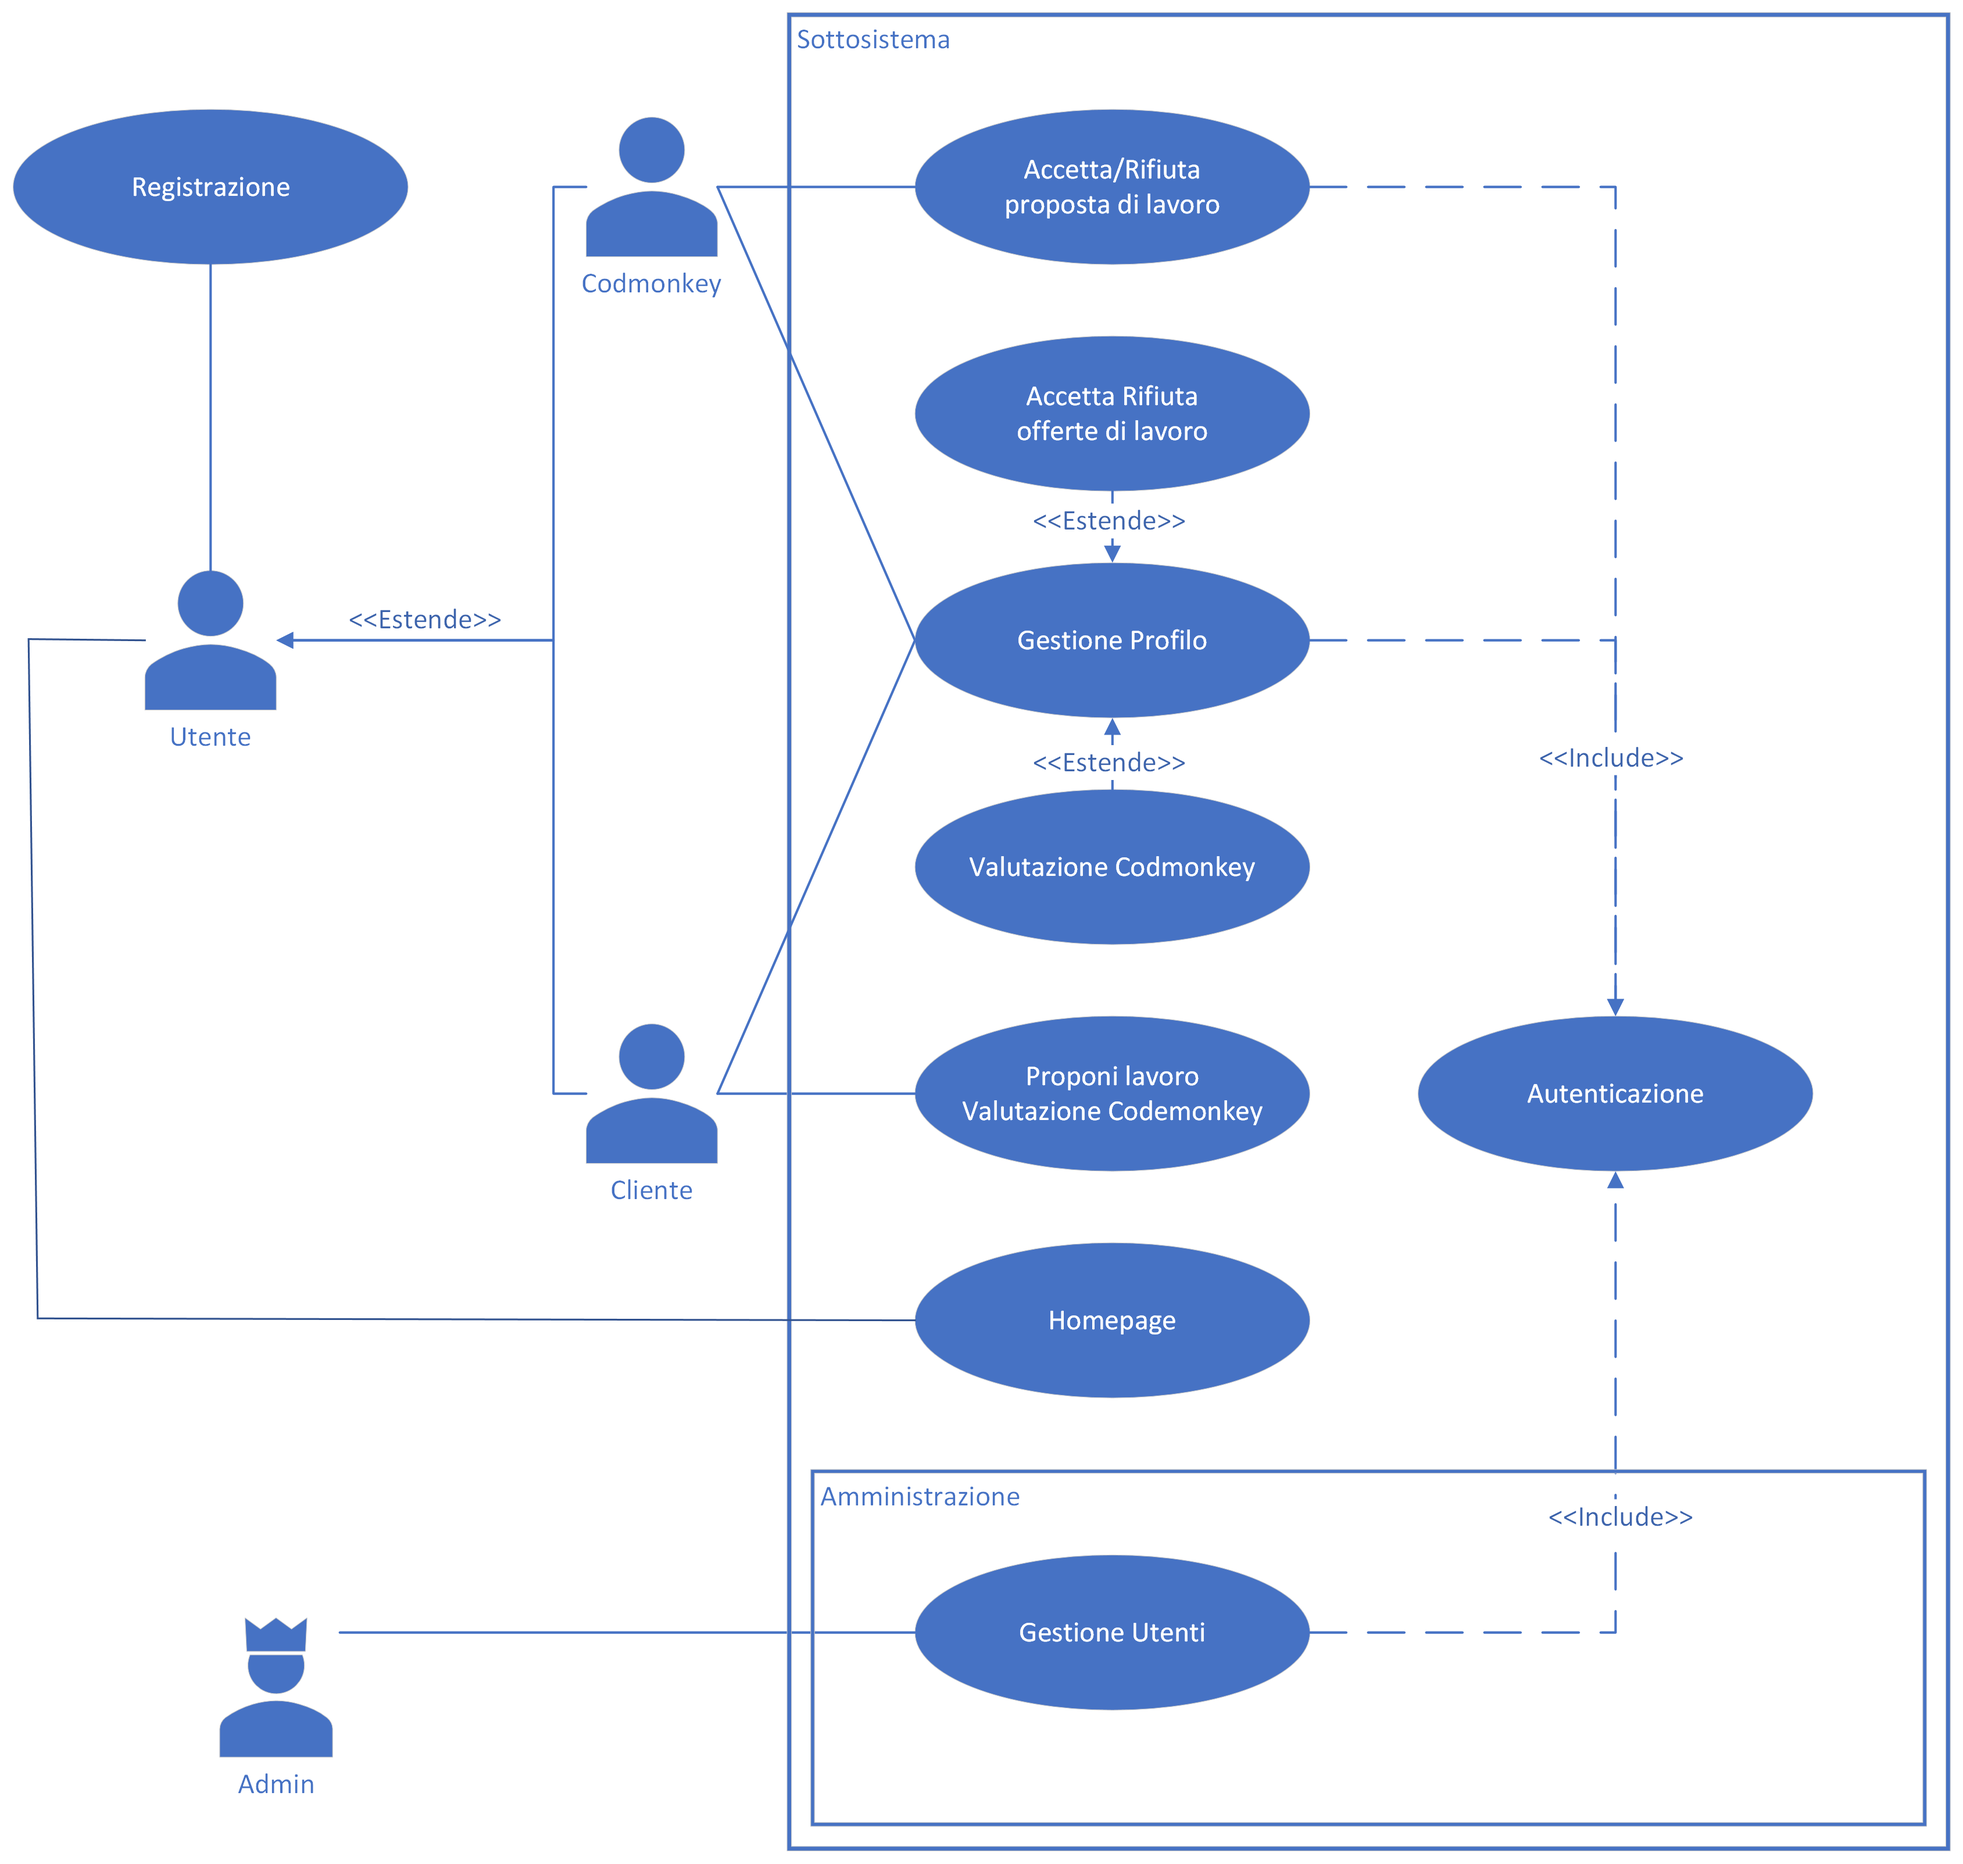
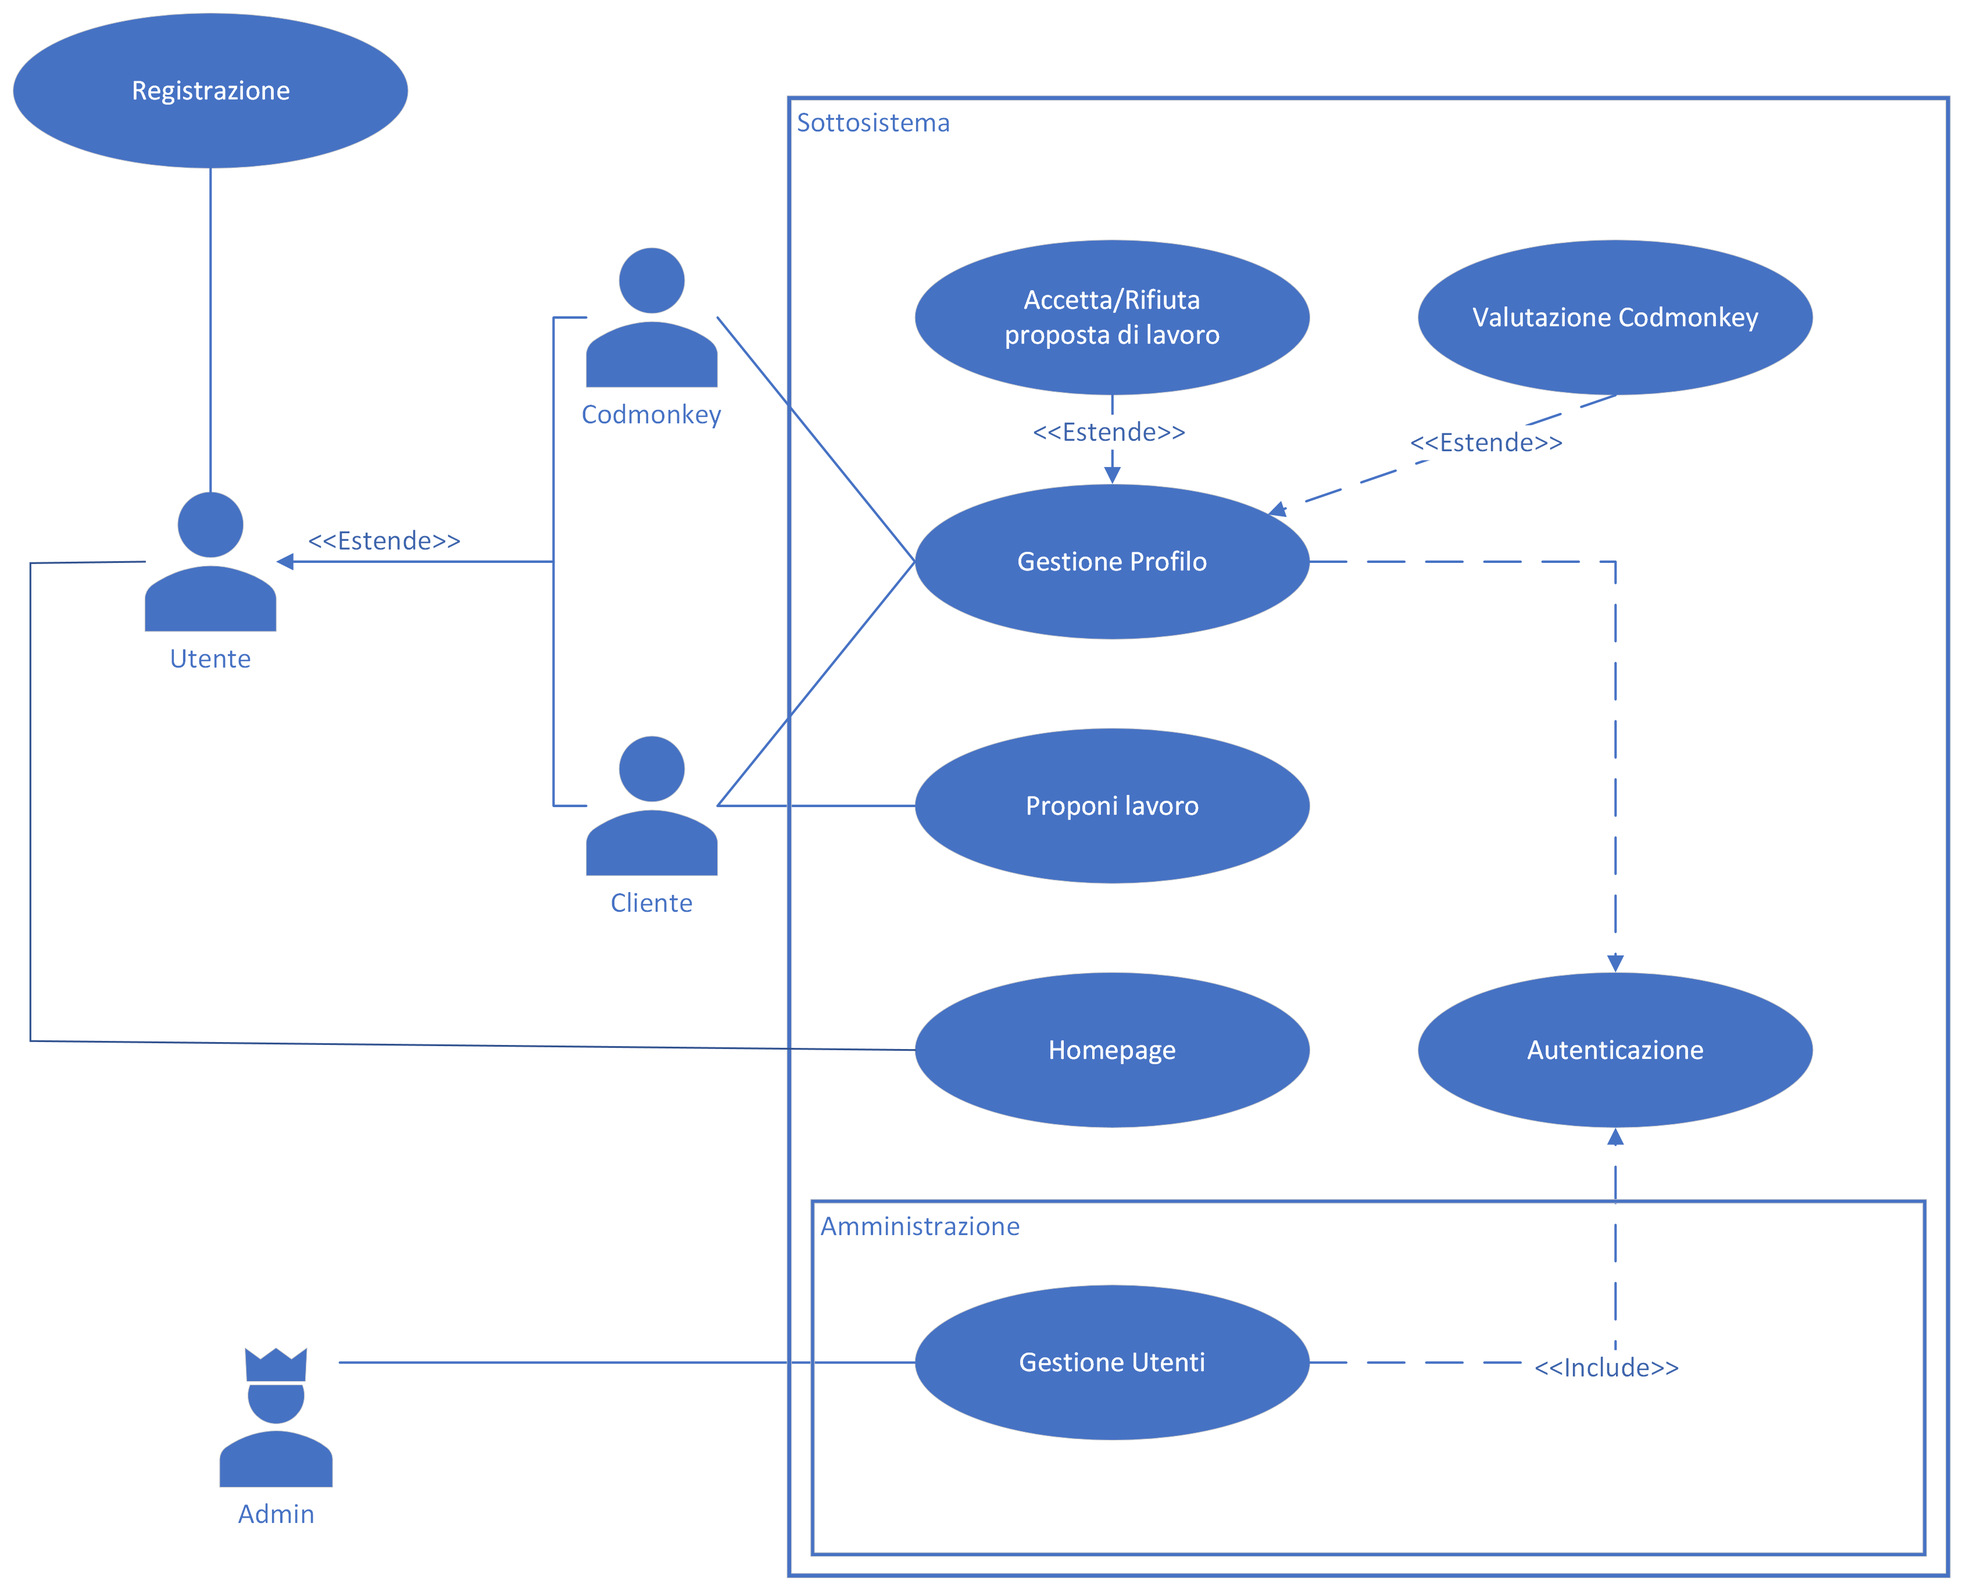
modified:   docs/codemonkey.tex 	modified:   docs/images/Codmonkey Casi D'uso.png 	modified:   docs/scenari.tex

diff --git a/docs/scenari.tex b/docs/scenari.tex
@@ -15,12 +15,11 @@
     \cellcolor{tableCyan!12}
 }
 
-
 \monkeytable{3} {
 {|>{\arraybackslash}m{3cm}|>{\arraybackslash}X|}
 
 \hline \rowcolor{tableCyan!37} \centering\textbf{Titolo} &
-\centering\textbf{Registrazione}\endline
+\centering\textbf{Registrazione} \endline
 \hline 
 \rowcolor{tableCyan!10}
 \cellcolor{tableCyan!22}
@@ -31,18 +30,19 @@
 \ntableCyan     Precondizioni & 
 \tableCyan      Postcondizioni & L'Utente viene registrato nel sistema come Codemonkey o come cliente
 \ntableCyan     Scenario Principale & L'Utente inserisce le credenziali (nomeUtente, e-mail, chiave di accesso) per la creazione di un account e specifica se vuole essere registrato come Cliente o Codemonkey
-\tableCyan      Scenari Alternativi & Se il nome Utente é giá stato scelto da qualcun'altro non sará possibile registrare l'account
-                \newline Se si inserisce una e-mail uguale a quella associata a un'altro account non sará possibile registrare l'account
-\ntableCyan     Requisiti NF & Sia nel caso che venga inserito un username giá esistente che nel caso venga inserita una email associata ad un account giá registrato dovrá essere segnalato all'Utente che non puó registrasi
-                \newline La password dovrá essere inserita e poi conferata dall'Utente per evitare possibli errori di battitura
-\tableCyan      Punti Aperti & Nel caso si stia registrando una Codemonkey sará possibile anche inserire dati per completare il proprio account
-                \newline Verrá fornita la possibilitá di attivare l'autenticazione a 2 fattori 
+\tableCyan      Scenari Alternativi & Se il nome Utente é giá stato scelto da qualcun'altro non sará possibile registrare l'account\newline
+                Se si inserisce una e-mail uguale a quella associata a un'altro account non sará possibile registrare l'account
+\ntableCyan     Requisiti NF & Sia nel caso che venga inserito un username giá esistente che nel caso venga inserita una email associata ad un account giá registrato dovrá essere segnalato all'Utente che non puó registrasi\newline 
+                La password dovrá essere inserita e poi conferata dall'Utente per evitare possibli errori di battitura
+\tableCyan      Punti Aperti & Nel caso si stia registrando una Codemonkey sará possibile anche inserire dati per completare il proprio account\newline
+                Verrá fornita la possibilitá di attivare l'autenticazione a 2 fattori 
 }
 
 \monkeytable{3} {
 {|>{\arraybackslash}m{3cm}|>{\arraybackslash}X|}
 
-\hline \rowcolor{tableCyan!37} \centering\textbf{Titolo} & \centering\textbf{Autenticazione}\endline
+\hline \rowcolor{tableCyan!37} \centering\textbf{Titolo} & 
+\centering\textbf{Autenticazione}\endline
 \hline 
 \rowcolor{tableCyan!10}
 \cellcolor{tableCyan!22}
@@ -62,7 +62,8 @@
 \monkeytable{3} {
 {|>{\arraybackslash}m{3cm}|>{\arraybackslash}X|}
 
-\hline \rowcolor{tableCyan!37} \centering\textbf{Titolo} & \centering\textbf{Gestione profilo}\endline
+\hline \rowcolor{tableCyan!37} \centering\textbf{Titolo} & 
+\centering\textbf{Gestione profilo}\endline
 \hline 
 \rowcolor{tableCyan!10}
 \cellcolor{tableCyan!22}
@@ -83,7 +84,109 @@
                 Sará possibile cambiare la valutazione fornita sulla Codemonkey una volta che é stata resa pubblica o a seguito di collaborazioni successive? Oppure sará piú giusto bloccare la possibilitá di bloccare la modifica delle valutazoni passate?
 }
 
+\monkeytable{3} {
+{|>{\arraybackslash}m{3cm}|>{\arraybackslash}X|}
 
+\hline \rowcolor{tableCyan!37} \centering\textbf{Titolo} &
+\centering\textbf{Accetta/Rifiuta proposta di lavoro}\endline
+\hline 
+\rowcolor{tableCyan!10}
+\cellcolor{tableCyan!22}
+
+                Descrizione & Sezione all'interno della gestione del profilo di una Codemonkey per visualizzare e accettare o rifiutare le proposte di lavoro
+\ntableCyan     Attori & Codemonkey
+\tableCyan      Relazioni & Gestione Profilo
+\ntableCyan     Precondizioni & Sará consentito l'accesso solo ad un Utente autenticato come Codemonkey
+\tableCyan      Postcondizioni &
+\ntableCyan     Scenario Principale &La Codemonkey all'interno della gestione del profilo potrá accedere alla lista di proposte di lavoro dei vari clienti e potrá accettare o rifiutare ogni proposta di lavoro
+\tableCyan      Scenari Alternativi &La Codemonkey oltre le proposte di lavoro troverá anche lavori giá accettati e anch'essi potranno essere rifiutati
+\ntableCyan     Requisiti NF &La lista di lavori da accettare deve essere separata da quella dei lavori giá accettati\newline
+                Ogni volta che si accetta o rifiuta un lavoro si deve presentare un modulo dove bisogna dare una conferma di voler procedere
+\tableCyan      Punti Aperti &Nel caso si voglia rifiutare o accettare un lavoro bisognerá fornire un periodo per far discutere l'azienda e la Codemonkey dove il lavoro rimane in una sorta di limbo?\newline
+                Cosa succede se una Codemonkey rifiuta un lavoro giá iniziato? Potrá essere valutata dal cliente?
+}
+
+\monkeytable{3} {
+{|>{\arraybackslash}m{3cm}|>{\arraybackslash}X|}
+
+\hline \rowcolor{tableCyan!37} \centering\textbf{Titolo} &
+\centering\textbf{Valutazione Codemonkey}\endline
+\hline 
+\rowcolor{tableCyan!10}
+\cellcolor{tableCyan!22}
+
+                Descrizione &Sezione all'interno della Gestione Profilo per fornire valutazioni di una Codemonkey
+\ntableCyan     Attori & Cliente
+\tableCyan      Relazioni & Gestione Profilo
+\ntableCyan     Precondizioni & Un Utente deve essere autenticato come Cliente
+\tableCyan      Postcondizioni &
+\ntableCyan     Scenario Principale & Un Cliente dalla sezione di gestione del profilo apre la sezione dedicata ai lavori attivi accettati dalle codmonkey e puó decidere se terminare un lavoro attivo. Per terminare un lavoro dovrá inserire una valutazione obbligatoria sul lavoro svolto dalla Codemonkey e potrá anche inserire una recensione scritta (opzionale)
+\tableCyan      Scenari Alternativi &
+\ntableCyan     Requisiti NF &Possibilitá di vedere tutte le collaborazioni presenti e passate in una lista separata da quella delle collaborazioni attive e possibilitá di generare nuove prposte di lavoro per quste Codemonkey
+\tableCyan      Punti Aperti &Sará fornita la possibilitá di dare una recensione per ogni lavo eseguito da una Codemonkey o sará meglio di no per evitare frodi?\newline
+                Sará possibile modificare recensioni giá pubblicate?
+}
+
+\monkeytable{3} {
+{|>{\arraybackslash}m{3cm}|>{\arraybackslash}X|}
+
+\hline \rowcolor{tableCyan!37} \centering\textbf{Titolo} &
+\centering\textbf{Proponi Lavoro}\endline
+\hline 
+\rowcolor{tableCyan!10}
+\cellcolor{tableCyan!22}
+
+                Descrizione &Sezione all'interno della quale é possibile mandare una richiesta di lavoro ad una Codemonkey
+\ntableCyan     Attori &Cliente
+\tableCyan      Relazioni &Autenticazione
+\ntableCyan     Precondizioni &Un utente deve trovarsi nella homepage del sito
+\tableCyan      Postcondizioni &
+\ntableCyan     Scenario Principale &Un Utente autenticato o meno dalla pagina principale del sito puó sfogliare tutti i proili delle Codemonkey, una volta che ha trovato la Codmonkey ideale puó cliccare sull'apposito bottone per proporre un lavoro, se si tratta di un Cliente il bottone aprirá una sezione nella quale sará possiblie mandare la richiesta di lavoro ad una Codmonkey con in allegato un messaggio di descrizione del lavoro, invece se é un utente a cliccare sul pulsante verrá aperta la pagina per effettuare l'autenticazione
+\tableCyan      Scenari Alternativi &
+\ntableCyan     Requisiti NF & Una volta che l'utente che ha cliccatp sul pulsante per proporre il lavoro si é autenticato invece che venir mandato alla pagina di gestione account gli verrá presentato il modulo per inviare la richiesta
+\tableCyan      Punti Aperti &Per evitare che vengano madate per errore richieste di lavoro senza oggetto bisognerá mettere obbligatorio un certo numero di caratteri per la descrizione per descrivere in modo accurato il problema
+}
+
+\monkeytable{3} {
+{|>{\arraybackslash}m{3cm}|>{\arraybackslash}X|}
+
+\hline \rowcolor{tableCyan!37} \centering\textbf{Titolo} &
+\centering\textbf{Homepage}\endline
+\hline 
+\rowcolor{tableCyan!10}
+\cellcolor{tableCyan!22}
+
+                Descrizione & Pagina principale dell'applicazione nella quale si possono eseguire ricerche di Codemonkey
+\ntableCyan     Attori & Utente, Cliente
+\tableCyan      Relazioni &
+\ntableCyan     Precondizioni &
+\tableCyan      Postcondizioni &
+\ntableCyan     Scenario Principale &Pagina principale contenente una lista di Codmonkey, un Utente o cliente possono eseguire ricerche inserendo dei filtri per trovare la Codemonkey ideale a sviluppare il looro progetto
+\tableCyan      Scenari Alternativi &
+\ntableCyan     Requisiti NF &Interfaccia grafica intuitiva e dall'estetica pulita\newline
+                Saranno caricati un numero limitato di profili Codemonkey a schermo e quando sará raggiunta la penultima riga dela lista verrá avviato il download del blocco successivo
+\tableCyan      Punti Aperti &
+}
+
+\monkeytable{3} {
+{|>{\arraybackslash}m{3cm}|>{\arraybackslash}X|}
+
+\hline \rowcolor{tableCyan!37} \centering\textbf{Titolo} &
+\centering\textbf{Gestione Utenti}\endline
+\hline 
+\rowcolor{tableCyan!10}
+\cellcolor{tableCyan!22}
+
+                Descrizione &Pagina dedicata agli admin per la gestione degli Utenti
+\ntableCyan     Attori &Admin  
+\tableCyan      Relazioni &
+\ntableCyan     Precondizioni &L'Amministratore deve essere stato autenticato
+\tableCyan      Postcondizioni &
+\ntableCyan     Scenario Principale &Dopo essersi autenticato l'Amministratore potrá accedere alla pagina dedicata alla gestione degli Utenti dove potrá Limitare Sospendere o eliminare un Utente Autenticato e moderare le recensioni fornite alle varie Codemonkey
+\tableCyan      Scenari Alternativi &
+\ntableCyan     Requisiti NF &
+\tableCyan      Punti Aperti &Potrebbe servire un sistema di report per codmonkey e clienti per aiutare gli admi a risolvere problemi?
+}
 
 
 
@@ -99,7 +202,8 @@
 \monkeytable{3} {
 {|>{\arraybackslash}m{3cm}|>{\arraybackslash}X|}
 
-\hline \rowcolor{tableCyan!37} \centering\textbf{Titolo} & \centering\textbf{...}\endline
+\hline \rowcolor{tableCyan!37} \centering\textbf{Titolo} &
+\centering\textbf{...}\endline
 \hline 
 \rowcolor{tableCyan!10}
 \cellcolor{tableCyan!22}

diff --git a/docs/codemonkey.tex b/docs/codemonkey.tex
@@ -10,7 +10,7 @@
 \definecolor{tableGreen}{RGB}{30, 190, 50}
 \definecolor{tableYellow}{RGB}{255, 220, 0}
 \definecolor{tableBlue}{RGB}{0 ,20, 210}
-\definecolor{tableCyan}{RGB}{0 ,160, 160}
+\definecolor{tableCyan}{RGB}{0 ,160, 156}
 \definecolor{tableRed}{RGB}{220 ,15, 5}
 
 %macro per andare a capo nelle tabelle
@@ -20,18 +20,18 @@
 
 %macro per generare le tabelle
 \newcommand{\monkeytable}[2]{
-\begin{center}
 \renewcommand{\arraystretch}{2}%padding top and bottom
 \begin{table}[!htbp]
+\begin{center}
 %\setlength{\extrarowheight}{2pt}%rowheight 
 \setlength\tabcolsep{5pt}%padding bordo lat
 \begin{tabularx}{\textwidth}
 #2
 \n %necessaria per chiudere la tabella
 \end{tabularx}
+\end{center}
 \end{table}
 \label{tab:monkeytable}
-\end{center}
 }
 
 
